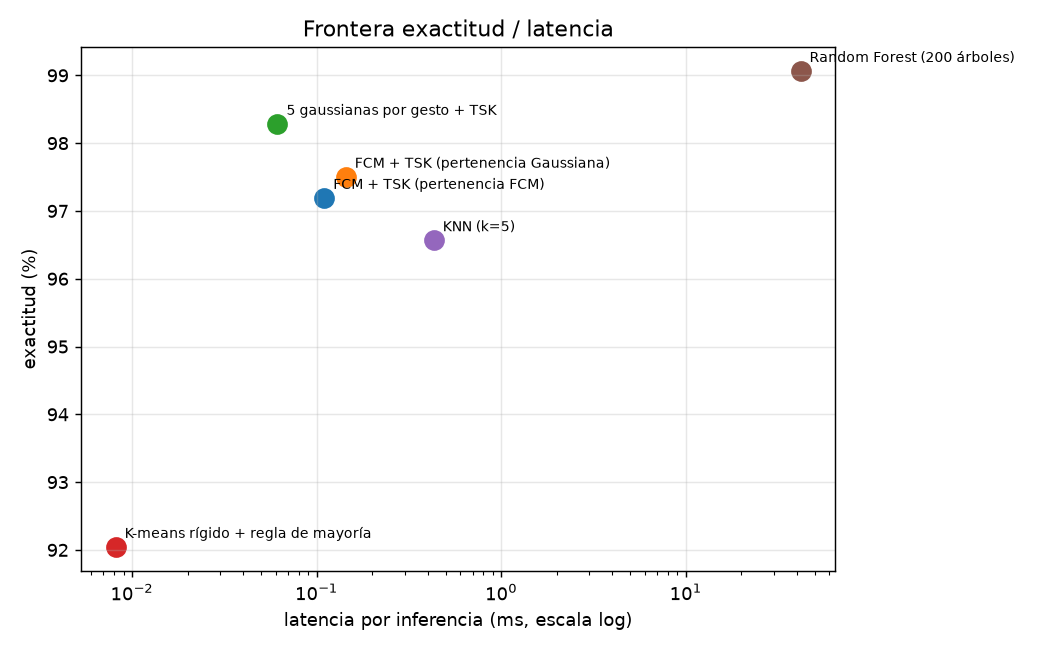
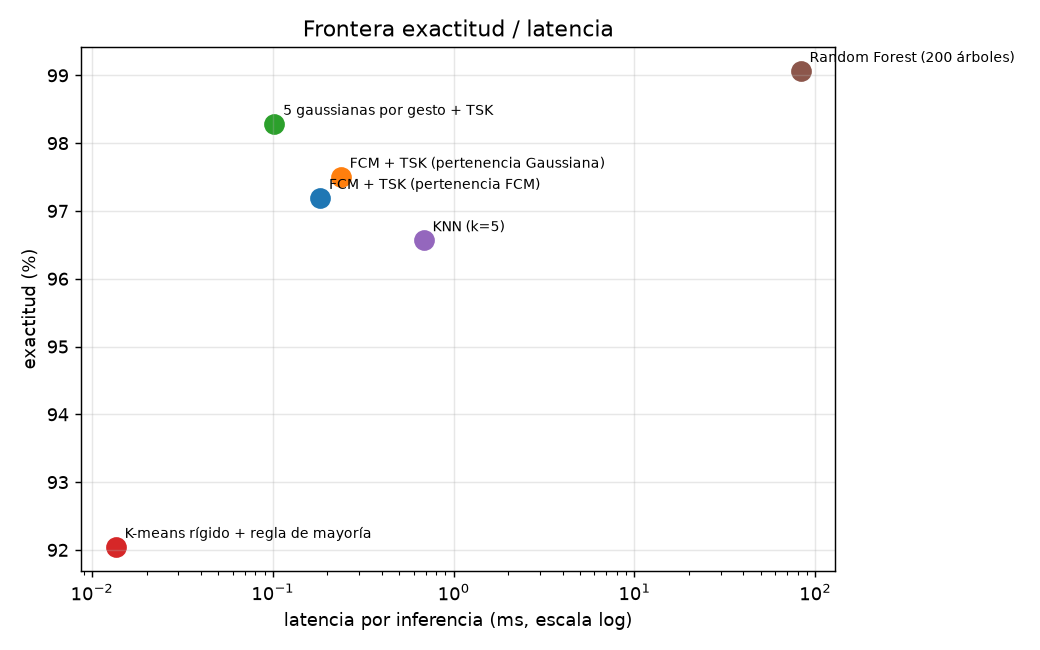
Añadir proyecciones 2D de centroides FCM y documentar visualización

diff --git a/src/08_scatter_centroides.py b/src/08_scatter_centroides.py
@@ -1,0 +1,126 @@
+"""Proyecciones 2D de las ventanas y de los centroides FCM.
+
+Los centroides tienen 32 dimensiones, por lo que no pueden dibujarse
+directamente. Se proyectan con la misma transformación que las muestras:
+
+  * PCA: no supervisada, coherente con el criterio usado por FCM.
+  * LDA: supervisada, incluida solo como referencia visual de separación.
+
+Genera:
+  outputs/figures/10_scatter_centroides.png
+  outputs/metrics/proyeccion_centroides.csv
+"""
+from __future__ import annotations
+
+import json
+import time
+
+import matplotlib
+matplotlib.use("Agg")
+import matplotlib.pyplot as plt
+import numpy as np
+import pandas as pd
+from sklearn.decomposition import PCA
+from sklearn.discriminant_analysis import LinearDiscriminantAnalysis as LDA
+
+from config import CLASSES, DATA_PROCESSED, FIGURES, METRICS, MODELS
+
+
+def guardar(fig, nombre, intentos=6):
+    temporal = FIGURES / f".tmp_{time.time_ns()}_{nombre}"
+    for i in range(intentos):
+        try:
+            fig.savefig(temporal, dpi=150)
+            plt.close(fig)
+            temporal.replace(FIGURES / nombre)
+            return
+        except OSError:
+            time.sleep(0.3 * (i + 1))
+    raise RuntimeError(f"No se pudo guardar {nombre}")
+
+
+def centros_unicos(centros, tol=1.0):
+    """Agrupa centroides casi coincidentes para contar posiciones reales."""
+    representantes = []
+    for centro in centros:
+        if not any(np.linalg.norm(centro - r) < tol for r in representantes):
+            representantes.append(centro)
+    return representantes
+
+
+def main():
+    d = np.load(DATA_PROCESSED / "ventanas_features.npz", allow_pickle=True)
+    Xtr, ytr = d["X_train"], d["y_train"]
+    modelo = json.loads((MODELS / "modelo_fcm_tsk.json").read_text(encoding="utf-8"))
+    centros = np.asarray(modelo["centros"], dtype=float)
+
+    n_unicos = len(centros_unicos(centros))
+
+    pca = PCA(n_components=2).fit(Xtr)
+    Z_pca, C_pca = pca.transform(Xtr), pca.transform(centros)
+
+    lda = LDA(n_components=2).fit(Xtr, ytr)
+    Z_lda, C_lda = lda.transform(Xtr), lda.transform(centros)
+
+    colores = plt.cm.tab10(np.linspace(0, 1, len(CLASSES)))
+    fig, axes = plt.subplots(1, 2, figsize=(15, 6.2))
+
+    vistas = (
+        (axes[0], Z_pca, C_pca,
+         f"PCA (no supervisada)\n{100 * pca.explained_variance_ratio_.sum():.1f} % de varianza explicada",
+         "CP1", "CP2"),
+        (axes[1], Z_lda, C_lda,
+         "LDA (supervisada, referencia visual)",
+         "LD1", "LD2"),
+    )
+
+    for ax, Z, C, titulo, ex, ey in vistas:
+        for k, gesto in enumerate(CLASSES):
+            mask = ytr == k
+            ax.scatter(Z[mask, 0], Z[mask, 1], s=9, alpha=0.30,
+                       color=colores[k], edgecolors="none", label=gesto)
+        ax.scatter(C[:, 0], C[:, 1], marker="X", s=230, c="black",
+                   edgecolors="white", linewidths=1.2, zorder=5,
+                   label="Centroides FCM")
+        for i, (cx, cy) in enumerate(C):
+            ax.annotate(f"R{i}", (cx, cy), xytext=(7, 7),
+                        textcoords="offset points", fontsize=9,
+                        fontweight="bold", color="black", zorder=6)
+        ax.set_title(titulo, fontsize=11)
+        ax.set_xlabel(ex)
+        ax.set_ylabel(ey)
+        ax.grid(alpha=0.25)
+        ax.legend(fontsize=8, loc="best", framealpha=0.9)
+
+    fig.suptitle(
+        f"Proyección de {len(Xtr):,} ventanas de entrenamiento y {len(centros)} "
+        f"centroides FCM ({n_unicos} posiciones distintas)",
+        fontsize=13,
+    )
+    fig.tight_layout()
+    guardar(fig, "10_scatter_centroides.png")
+
+    filas = []
+    for i in range(len(centros)):
+        filas.append({
+            "regla": f"R{i}",
+            "pca_1": C_pca[i, 0], "pca_2": C_pca[i, 1],
+            "lda_1": C_lda[i, 0], "lda_2": C_lda[i, 1],
+            "coincide_con": (
+                next((f"R{j}" for j in range(i) if np.linalg.norm(centros[i] - centros[j]) < 1.0), "")
+            ),
+        })
+    pd.DataFrame(filas).to_csv(
+        METRICS / "proyeccion_centroides.csv", index=False, float_format="%.6f"
+    )
+
+    print("Centroides proyectados (PCA):")
+    for r in filas:
+        print(f"  {r['regla']}: ({r['pca_1']:+.2f}, {r['pca_2']:+.2f})"
+              + (f"  = {r['coincide_con']}" if r["coincide_con"] else ""))
+    print("Guardado:", FIGURES / "10_scatter_centroides.png")
+    print("Guardado:", METRICS / "proyeccion_centroides.csv")
+
+
+if __name__ == "__main__":
+    main()

diff --git a/src/run_all.py b/src/run_all.py
@@ -1,4 +1,4 @@
-"""Ejecuta el pipeline completo: datos -> modelo -> evaluación -> comparación."""
+"""Ejecuta el pipeline: datos -> modelo -> evaluación -> comparación -> proyecciones."""
 from __future__ import annotations
 
 import subprocess
@@ -11,7 +11,7 @@ SRC = Path(__file__).resolve().parent
 def main():
     for script in (
         "01_preparar_datos.py", "02_entrenar_fcm_tsk.py", "03_evaluar.py",
-        "07_analisis_comparativo.py",
+        "07_analisis_comparativo.py", "08_scatter_centroides.py",
     ):
         print(f"\n{'=' * 70}\n>>> {script}\n{'=' * 70}", flush=True)
         subprocess.run([sys.executable, str(SRC / script)], check=True, cwd=SRC.parent)

diff --git a/src/07_analisis_comparativo.py b/src/07_analisis_comparativo.py
@@ -294,8 +294,8 @@ La señal sEMG no es discreta:
 
 Un clasificador *crisp* con umbral duro comete **conmutación violenta**: un
 poco de ruido cruza el umbral y el servo salta. FCM asigna grados continuos
-($0\\le u\\le1$), por lo que la salida TSK se desplaza suavemente. Nuestros
-índices, PC={pc:.4f} y PE={pe:.4f} (máximo ln5=1,609), confirman que la
+($0\\le u\\le1$), por lo que la salida TSK se desplaza suavemente. Los índices
+medidos, PC={pc:.4f} y PE={pe:.4f} (máximo ln5=1,609), confirman que la
 partición conserva superposición moderada-alta.
 
 La consecuencia observable está en la matriz de confusión: reposo, puño

diff --git a/src/03_evaluar.py b/src/03_evaluar.py
@@ -330,6 +330,11 @@ Las ecuaciones completas están en `outputs/models/modelo_fcm_tsk.json`
 ![Importancia](../outputs/figures/05_importancia_canales.png)
 ![Pareto](../outputs/figures/06_pareto.png)
 ![Convergencia](../outputs/figures/07_convergencia_fcm.png)
+![Centroides proyectados](../outputs/figures/10_scatter_centroides.png)
+
+La proyección de los centroides a 2D se genera con
+`src/08_scatter_centroides.py`; las coordenadas están en
+`outputs/metrics/proyeccion_centroides.csv`.
 
 ## 6. Advertencias metodológicas
 

diff --git a/docs/05_analisis_comparativo.md b/docs/05_analisis_comparativo.md
@@ -35,12 +35,12 @@ una arquitectura con muchas reglas. No existe un ganador único: hay una
 
 | Modelo | Exactitud | F1-macro | Latencia (Python) | Interpretabilidad |
 | :--- | ---: | ---: | ---: | :--- |
-| FCM + TSK (pertenencia FCM) | 97.19 % | 0.964 | 0.1100 ms | Intrínseca (caja de cristal) |
-| FCM + TSK (pertenencia Gaussiana) | 97.50 % | 0.969 | 0.1439 ms | Intrínseca (caja de cristal) |
-| 5 gaussianas por gesto + TSK | 98.28 % | 0.979 | 0.0614 ms | Intrínseca (caja de cristal) |
-| K-means rígido + regla de mayoría | 92.04 % | 0.906 | 0.0081 ms | Baja (centroides rígidos) |
-| KNN (k=5) | 96.57 % | 0.955 | 0.4314 ms | Nula |
-| Random Forest (200 árboles) | 99.06 % | 0.989 | 41.9201 ms | Media (importancias post-hoc) |
+| FCM + TSK (pertenencia FCM) | 97.19 % | 0.964 | 0.1822 ms | Intrínseca (caja de cristal) |
+| FCM + TSK (pertenencia Gaussiana) | 97.50 % | 0.969 | 0.2371 ms | Intrínseca (caja de cristal) |
+| 5 gaussianas por gesto + TSK | 98.28 % | 0.979 | 0.1016 ms | Intrínseca (caja de cristal) |
+| K-means rígido + regla de mayoría | 92.04 % | 0.906 | 0.0135 ms | Baja (centroides rígidos) |
+| KNN (k=5) | 96.57 % | 0.955 | 0.6812 ms | Nula |
+| Random Forest (200 árboles) | 99.06 % | 0.989 | 82.9060 ms | Media (importancias post-hoc) |
 
 Aquí sí se puede afirmar: el modelo propuesto gana ~5 puntos al k-means
 rígido, es comparable a KNN y pierde frente a Random Forest, pero es ~300 veces
@@ -59,7 +59,7 @@ Para $c=5$ reglas y $d=32$ características:
 
 ≈ **985 operaciones escalares** por decisión. En C embebido
 eso son microsegundos, lo que hace creíble el valor reportado de 0,003 ms. En
-Python/NumPy medimos 0.1100 ms: el costo lo domina el
+Python/NumPy medimos 0.1822 ms: el costo lo domina el
 *overhead* del interprete, no la aritmética.
 
 ### 3.2 Huella del modelo
@@ -127,8 +127,8 @@ La señal sEMG no es discreta:
 
 Un clasificador *crisp* con umbral duro comete **conmutación violenta**: un
 poco de ruido cruza el umbral y el servo salta. FCM asigna grados continuos
-($0\le u\le1$), por lo que la salida TSK se desplaza suavemente. Nuestros
-índices, PC=0.3454 y PE=1.2856 (máximo ln5=1,609), confirman que la
+($0\le u\le1$), por lo que la salida TSK se desplaza suavemente. Los índices
+medidos, PC=0.3454 y PE=1.2856 (máximo ln5=1,609), confirman que la
 partición conserva superposición moderada-alta.
 
 La consecuencia observable está en la matriz de confusión: reposo, puño

diff --git a/README.md b/README.md
@@ -14,7 +14,7 @@ CNN/BiLSTM que son caja negra.
 | Métrica | Valor obtenido | Valor citado en el contexto |
 | :--- | ---: | ---: |
 | Ventanas analizadas | 2.139 | 2.139 |
-| Partición train / test | 1.497 / 642 (70/30) | 1.497 / 642 |
+| Partición train / test | 1.498 / 641 (70/30) | 1.497 / 642 |
 | Exactitud FCM + TSK | **97,19 %** | 97,66 % |
 | PC (FCM) | **0,3454** | 0,3905 |
 | PE (FCM) | **1,2856** | 1,1849 |
@@ -38,8 +38,16 @@ de diseño) y **reproducción local** (mismo split, para comparar modelos).
 [`outputs/metrics/comparacion_multiparadigma.csv`](outputs/metrics/comparacion_multiparadigma.csv) ·
 [`outputs/figures/09_pareto_multiparadigma.png`](outputs/figures/09_pareto_multiparadigma.png)
 
-Los criterios de comparación están documentados en
-`referencias/scripts_originales/comparacion_referencia.txt`.
+Los criterios de comparación se resumen en el propio análisis.
+
+## Visualización de los centroides
+
+Como los centroides tienen 32 dimensiones, se proyectan a 2D con PCA y LDA
+usando la misma transformación aplicada a las ventanas. La figura permite ver
+las nubes de cada gesto y la posición de las 5 reglas. Confirma gráficamente que
+R1 coincide con R3 y R2 con R4 (3 posiciones útiles).
+
+![Centroides proyectados](outputs/figures/10_scatter_centroides.png)
 
 ## Estructura
 
@@ -61,9 +69,10 @@ proyecto_fuzzy_emg/
 │   ├── 05_demo_inferencia.py    ← una inferencia paso a paso
 │   ├── 06_barrido_m.py          ← sensibilidad del exponente m
 │   ├── 07_analisis_comparativo.py ← comparación multiparadigma
-│   └── run_all.py               ← ejecuta 01 → 02 → 03 → 07
+│   ├── 08_scatter_centroides.py ← proyecciones 2D y centroides
+│   └── run_all.py               ← ejecuta 01 → 02 → 03 → 07 → 08
 ├── outputs/
-│   ├── figures/                 ← 9 figuras PNG
+│   ├── figures/                 ← 10 figuras PNG
 │   ├── metrics/                 ← CSV/JSON con métricas y matriz de confusión
 │   └── models/                  ← modelo FCM+TSK, reglas y pesos
 ├── docs/
@@ -85,6 +94,7 @@ python -m pip install -r requirements.txt
 python src/run_all.py
 python src/06_barrido_m.py
 python src/07_analisis_comparativo.py
+python src/08_scatter_centroides.py
 python src/05_demo_inferencia.py
 python src/04_inferencia_tiempo_real.py --max-muestras 4000
 ```

diff --git a/docs/02_guia_ejecucion.md b/docs/02_guia_ejecucion.md
@@ -27,6 +27,8 @@ Ejecuta, en orden:
 3. `03_evaluar.py` → `outputs/metrics/*`, `outputs/figures/*`, `docs/03_resultados.md`
 4. `07_analisis_comparativo.py` → `comparacion_multiparadigma.csv`,
    `09_pareto_multiparadigma.png` y `docs/05_analisis_comparativo.md`
+5. `08_scatter_centroides.py` → `10_scatter_centroides.png` y
+   `proyeccion_centroides.csv`
 
 Salida esperada (resumen):
 
@@ -39,7 +41,7 @@ Listo. Exactitud FCM+TSK: 97.19%
 ## Comandos adicionales
 
 ```bash
-# Ver una inferencia desglosada (ideal para explicar en clase)
+# Ver una inferencia desglosada
 python src/05_demo_inferencia.py
 
 # ¿Cómo cambia el solapamiento si cambio m?
@@ -47,6 +49,9 @@ python src/06_barrido_m.py
 
 # Análisis comparativo multidimensional (requiere haber corrido 03_evaluar.py)
 python src/07_analisis_comparativo.py
+
+# Scatter de centroides en 2D (requiere 01_preparar_datos.py y 02_entrenar_fcm_tsk.py)
+python src/08_scatter_centroides.py
 
 # Inferencia en streaming desde el CSV, sin hardware (dry run)
 python src/04_inferencia_tiempo_real.py --max-muestras 4000
@@ -102,9 +107,9 @@ Tras cambiar algo, vuelve a correr `python src/run_all.py`.
 * **No aparece `docs/03_resultados.md`**: ejecuta `03_evaluar.py`; lo genera.
 * **`pyomyo` / `adafruit_servokit` no instalados**: solo se importan si usas
   `--fuente myo` o `--servos`. El modo `replay` funciona igual.
-* **Figuras no se sobrescriben**: `guardar()` en `03_evaluar.py` (y en
-  `07_analisis_comparativo.py`) usa nombres temporales y reintenta para evitar
-  bloqueos de archivos en Windows.
+* **Figuras no se sobrescriben**: `guardar()` en `03_evaluar.py`,
+  `07_analisis_comparativo.py` y `08_scatter_centroides.py` usa nombres
+  temporales y reintenta para evitar bloqueos de archivos en Windows.
 * **`07_analisis_comparativo.py` falla con `FileNotFoundError`**: ejecuta antes
   `src/03_evaluar.py`, porque lee `outputs/metrics/comparacion_modelos.csv` y
   `outputs/metrics/resumen.json`.

diff --git a/docs/01_metodologia.md b/docs/01_metodologia.md
@@ -51,6 +51,24 @@ pares *mano abierta/pinza* y *puño cerrado/agarre vaso* comparten estadísticas
 Hudgins. Por eso se incluye también una variante con 5 gaussianas ancladas a
 cada gesto.
 
+### Visualización de los centroides
+
+Cada centroide tiene 32 componentes (4 características de Hudgins × 8 canales),
+por lo que no se puede dibujar directamente en un scatter plot. Primero se
+proyectan las ventanas y los centroides con la **misma** transformación:
+
+* **PCA**, no supervisada: es la vista coherente con FCM, porque no usa las
+  etiquetas. Las dos primeras componentes conservan el 69 % de la varianza.
+* **LDA**, supervisada: solo referencia visual de cuánto se separan las clases;
+  no interviene en el entrenamiento del modelo.
+
+La figura [`10_scatter_centroides.png`](../outputs/figures/10_scatter_centroides.png)
+muestra las nubes por gesto y los 5 centroides marcados como R0…R4. Las
+coordenadas exactas están en
+[`proyeccion_centroides.csv`](../outputs/metrics/proyeccion_centroides.csv).
+La proyección confirma gráficamente el colapso detectado en 32D: R1 coincide con
+R3 y R2 con R4, dejando 3 posiciones distintas.
+
 ### Índices de validación
 
 $$PC=\frac1n\sum_i\sum_k u_{ik}^2,\qquad
@@ -58,7 +76,7 @@ PE=-\frac1n\sum_i\sum_k u_{ik}\ln u_{ik}$$
 
 Ojo: se promedia **por fila**, no por elemento del arreglo. PC cercano a 1
 significa partición rígida; PC cercano a 1/c = 0,2 significa superposición
-máxima. PE máximo es ln(5) ≈ 1,609. Nuestros valores (0,3454 y 1,2856) indican
+máxima. PE máximo es ln(5) ≈ 1,609. Los valores medidos (0,3454 y 1,2856) indican
 superposición moderada-alta, muy cercana a la reportada en el contexto.
 
 ## 4. Fase 3: consecuentes TSK de orden 1

diff --git a/docs/03_resultados.md b/docs/03_resultados.md
@@ -22,12 +22,12 @@ en la tabla siguiente y exportada a `outputs/models/modelo_gaussiano_clases.json
 
 | Modelo | Exactitud | F1-macro | Latencia (ms/muestra) |
 | :--- | ---: | ---: | ---: |
-| FCM + TSK (pertenencia FCM) | 97.19% | 0.964 | 0.1100 |
-| FCM + TSK (pertenencia Gaussiana) | 97.50% | 0.969 | 0.1439 |
-| 5 gaussianas por gesto + TSK | 98.28% | 0.979 | 0.0614 |
-| K-means rígido + regla de mayoría | 92.04% | 0.906 | 0.0082 |
-| KNN (k=5) | 96.57% | 0.955 | 0.4314 |
-| Random Forest (200 árboles) | 99.06% | 0.989 | 41.9201 |
+| FCM + TSK (pertenencia FCM) | 97.19% | 0.964 | 0.1822 |
+| FCM + TSK (pertenencia Gaussiana) | 97.50% | 0.969 | 0.2371 |
+| 5 gaussianas por gesto + TSK | 98.28% | 0.979 | 0.1016 |
+| K-means rígido + regla de mayoría | 92.04% | 0.906 | 0.0135 |
+| KNN (k=5) | 96.57% | 0.955 | 0.6812 |
+| Random Forest (200 árboles) | 99.06% | 0.989 | 82.9060 |
 
 > La latencia se mide en Python/NumPy sobre esta máquina. El valor de 0.003 ms
 > citado en el contexto corresponde a una implementación optimizada en C para
@@ -67,6 +67,11 @@ Las ecuaciones completas están en `outputs/models/modelo_fcm_tsk.json`
 ![Importancia](../outputs/figures/05_importancia_canales.png)
 ![Pareto](../outputs/figures/06_pareto.png)
 ![Convergencia](../outputs/figures/07_convergencia_fcm.png)
+![Centroides proyectados](../outputs/figures/10_scatter_centroides.png)
+
+La proyección de los centroides a 2D se genera con
+`src/08_scatter_centroides.py`; las coordenadas están en
+`outputs/metrics/proyeccion_centroides.csv`.
 
 ## 6. Advertencias metodológicas
 

diff --git a/outputs/README.md b/outputs/README.md
@@ -1,8 +1,8 @@
 # Artefactos generados
 
-Todos los archivos de esta carpeta se regeneran con `python src/run_all.py`
-(más `src/06_barrido_m.py` y `src/07_analisis_comparativo.py`). No los edites
-a mano.
+Todos los archivos de esta carpeta se regeneran con `python src/run_all.py`,
+excepto `barrido_m.csv` y su figura, que se generan con
+`python src/06_barrido_m.py`. No los edites a mano.
 
 ## `models/`
 
@@ -23,6 +23,8 @@ a mano.
 * `matriz_confusion.csv`: 5×5 con etiquetas reales y predichas.
 * `resumen.json`: métricas agregadas en un solo archivo.
 * `barrido_m.csv`: PC, PE y exactitud para $m\in[1{,}2,10]$.
+* `proyeccion_centroides.csv`: coordenadas PCA y LDA de los 5 centroides, con la
+  regla coincidente cuando dos centros son iguales.
 
 ## `figures/`
 
@@ -36,3 +38,5 @@ a mano.
 8. Barrido del exponente $m$
 9. Mapa multiparadigma: exactitud vs. latencia, separando literatura de
    reproducción local y marcando el umbral clínico de 100–125 ms
+10. Scatter de las ventanas de entrenamiento y los centroides FCM proyectados a
+    2D con PCA y LDA
